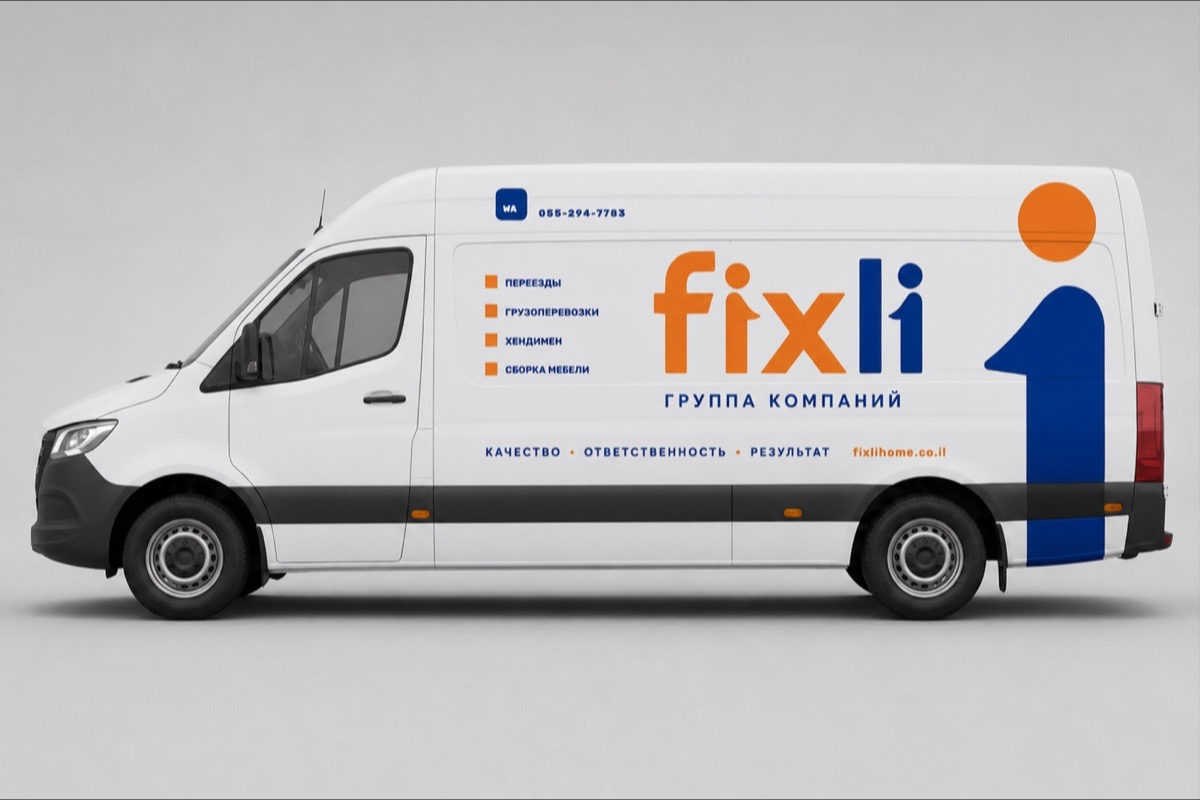
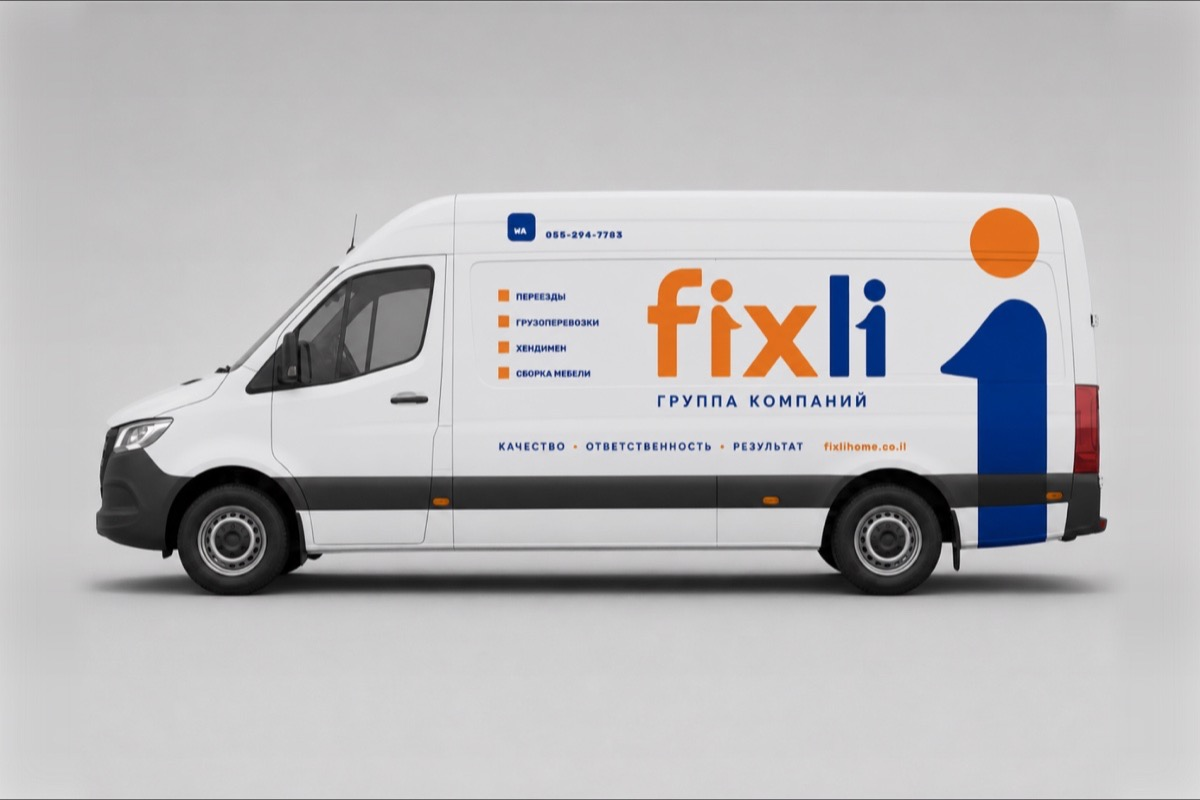
Кадр спринтера приведён к масштабу соседа
Отношение высот машин на странице стало 1,26 — как в паспортных
габаритах класса — вместо прежних 1,12.

Changed region(s): [[0.0, 0.1875, 0.9867, 0.7812], [0.1233, 0.25, 0.37, 0.5312]]

diff --git a/status/cddf45e1af/index.html b/status/cddf45e1af/index.html
@@ -582,14 +582,50 @@
   .такт:last-child::after { content: none; }
 
   /* круг экосистемы */
-  .эко-круг { display: grid; grid-template-columns: 420px 1fr; gap: 34px; align-items: center; margin-top: 8px; }
+  /* Отступы — место для орбит, и числа не на глаз. Слой орбит выше схемы на
+     122 px и ниже на 93; выше дуги стоит ещё подложка подписи. Первая версия
+     давала 112 px сверху — верхняя подпись обрезалась краем блока, и увидели
+     это глаза на кадре, а не замер. Взято с запасом. */
+  .эко-круг {
+    display: grid; grid-template-columns: 480px 1fr; gap: 34px; align-items: center;
+    margin-top: 8px; padding: 134px 0 104px;
+  }
   /* Очень слабое свечение из центра: вся конструкция растёт из одной
      клиентской базы, и фон говорит это раньше, чем текст. Радиус подобран так,
      чтобы к кромке кольца оно уже сошло на нет и не спорило с заливками. */
+  /* Сцена — обёртка ровно по схеме: орбиты позиционируются от НЕЁ, поэтому их
+     центр совпадает с центром кольца при любой ширине. */
+  .эко-сцена { position: relative; width: 100%; max-width: 480px; margin: 0 auto; }
   .эко-схема {
-    width: 100%; max-width: 420px; margin: 0 auto;
+    display: block; width: 100%; position: relative; z-index: 1;
     background: radial-gradient(circle at 50% 46%, rgba(18, 67, 143, .09), rgba(18, 67, 143, 0) 60%);
   }
+  /* Орбиты. Радиусы выведены замером, а не подобраны: подписи направлений
+     тянутся от центра до 229 единиц (самая длинная — «Solutions»), поэтому
+     первая дуга идёт на 243, вторая на 294 — им не с чем сталкиваться.
+
+     Справа дуги разомкнуты на ±35°: при таком разрыве самая правая точка дуги
+     отстоит от центра на 241 единицу по X, то есть остаётся ВНУТРИ своей
+     колонки и не заезжает под карточку. Разрыв здесь не украшение, а
+     единственное, что удерживает орбиты от наложения на текст.
+
+     Слой лежит ПОД схемой (z-index) и не ловит нажатия: сектор под дугой
+     обязан оставаться кнопкой. */
+  .эко-орбиты {
+    position: absolute; left: 50%; top: 46.25%; transform: translate(-50%, -50%);
+    width: 126%; aspect-ratio: 1; pointer-events: none; z-index: 0;
+  }
+  .эко-орбиты .дуга { fill: none; stroke: var(--линия); stroke-width: 1.4; stroke-dasharray: 5 7; }
+  .эко-орбиты .подпись {
+    font-size: 13px; font-weight: 700; letter-spacing: .06em; text-transform: uppercase;
+    fill: var(--текст-мягкий); text-anchor: middle;
+  }
+  .эко-орбиты .когда { font-size: 12px; font-weight: 600; fill: var(--оранжевый-текст); text-anchor: middle; }
+  .эко-орбиты .подложка { fill: var(--фон); }
+  /* На телефоне орбит нет: дуги радиусом вдвое больше кольца там либо вылезают
+     за экран, либо сжимают само кольцо до нечитаемого. Уровни при этом не
+     теряются — они перечислены лентой этапов ниже по странице. */
+  @media (max-width: 900px) { .эко-орбиты { display: none; } }
   .эко-схема .сектор { cursor: pointer; }
   /* У `<g tabindex>` Chromium рисует своё кольцо фокуса и по клику мышью: замер
      даёт `:focus-visible` false при outline 5px, то есть рамка приходит от UA, а
@@ -623,6 +659,19 @@
   .эко-карточка .шапка { display: flex; align-items: center; gap: 10px; margin-bottom: 8px; }
   .эко-карточка .точка { width: 14px; height: 14px; border-radius: 4px; flex: none; }
   .эко-карточка h4 { margin: 0; font-size: 21px; color: var(--синий-тёмный); }
+  /* Тезис — зачем направление нужно бизнесу, а не что в него входит. Все пять
+     взяты дословно из документа стратегии (стр. 2 и 22) и сокращены только
+     обрезкой, без своих слов: предложенные при разборе формулировки вроде
+     «повторный контакт превращается в регулярную выручку» в источнике
+     отсутствуют — слова «регулярн-» там нет ни разу.
+
+     У Cleaning, Handyman и Painting тезис ОДИН и тот же, и это не недосмотр:
+     в источнике они сведены в одну роль «Service — поддержка дома», отдельного
+     «зачем» у каждого документ не даёт. */
+  .эко-карточка .тезис {
+    margin: 10px 0 12px; font-size: 19px; line-height: 1.35; font-weight: 600;
+    color: var(--синий-тёмный); max-width: 30ch;
+  }
   /* Счётчик — ориентир «где я в пятёрке», поэтому он крупный и бледный, а не
      подпись. Скрыт от диктора: положение ему уже сообщают пять озвученных
      секторов-кнопок, а «01 / 05» при каждой смене читалось бы вслух впустую. */
@@ -825,7 +874,7 @@
     /* В столбик связка разворачивается вниз: вбок ей уже некуда, а без неё три
        карточки снова читаются как перечень, а не как порядок. */
     .такт::after { content: "↓"; right: auto; left: 26px; top: auto; bottom: -17px; transform: none; }
-    .эко-круг { grid-template-columns: 1fr; gap: 22px; }
+    .эко-круг { grid-template-columns: 1fr; gap: 22px; padding: 0; }
     .эко-карточка { min-height: 0; }
     .этап-сетка { grid-template-columns: 1fr; }
     .этап-кнопка { flex: 0 0 158px; }
@@ -1485,39 +1534,56 @@
         центр — экономика всей конструкции. В столбик карточек эта мысль исчезает.
         Секторы — кнопки, поэтому работают и с клавиатуры.
       -->
-      <svg class="эко-схема" viewBox="-16 0 492 400" role="group" aria-label="Пять направлений Fixli вокруг общей клиентской базы">
-        <g data-эко="0" class="сектор" style="--вынос-x: 4.7px; --вынос-y: -6.5px" role="button" tabindex="0" aria-pressed="true" aria-label="Moving">
-          <path class="заливка" fill="#12438f" d="M232.9 45.0 A140 140 0 0 1 362.2 139.0 L309.3 157.4 A84 84 0 0 0 231.8 101.0 Z" />
-          <text class="имя" x="327.6" y="55.7" text-anchor="start">Moving</text>
-          <text class="состояние" x="327.6" y="72.7" text-anchor="start">сегодня</text>
-        </g>
-        <g data-эко="1" class="сектор" style="--вынос-x: 7.6px; --вынос-y: 2.5px" role="button" tabindex="0" aria-pressed="false" aria-label="Cleaning">
-          <path class="заливка" fill="#3a66ad" d="M364.0 144.5 A140 140 0 0 1 314.6 296.5 L280.8 251.9 A84 84 0 0 0 310.4 160.7 Z" />
-          <text class="имя" x="387.9" y="241.3" text-anchor="start">Cleaning</text>
-          <text class="состояние" x="387.9" y="258.3" text-anchor="start">этап 2</text>
-        </g>
-        <g data-эко="2" class="сектор" style="--вынос-x: 0px; --вынос-y: 8px" role="button" tabindex="0" aria-pressed="false" aria-label="Handyman">
-          <path class="заливка" fill="#6f93cd" d="M309.9 300.0 A140 140 0 0 1 150.1 300.0 L182.1 254.0 A84 84 0 0 0 277.9 254.0 Z" />
-          <text class="имя" x="230.0" y="356.0" text-anchor="middle">Handyman</text>
-          <text class="состояние" x="230.0" y="373.0" text-anchor="middle">сегодня</text>
-        </g>
-        <g data-эко="3" class="сектор" style="--вынос-x: -7.6px; --вынос-y: 2.5px" role="button" tabindex="0" aria-pressed="false" aria-label="Painting">
-          <path class="заливка" fill="#f7ab63" d="M145.4 296.5 A140 140 0 0 1 96.0 144.5 L149.6 160.7 A84 84 0 0 0 179.2 251.9 Z" />
-          <text class="имя" x="72.1" y="241.3" text-anchor="end">Painting</text>
-          <text class="состояние" x="72.1" y="258.3" text-anchor="end">этап 2</text>
-        </g>
-        <g data-эко="4" class="сектор" style="--вынос-x: -4.7px; --вынос-y: -6.5px" role="button" tabindex="0" aria-pressed="false" aria-label="Solutions">
-          <path class="заливка" fill="#f38025" d="M97.8 139.0 A140 140 0 0 1 227.1 45.0 L228.2 101.0 A84 84 0 0 0 150.7 157.4 Z" />
-          <text class="имя" x="132.4" y="55.7" text-anchor="end">Solutions</text>
-          <text class="состояние" x="132.4" y="72.7" text-anchor="end">этап 5</text>
-        </g>
-        <!-- подписи вынесены НАРУЖУ кольца: внутри они вылезали за обе кромки
-             («Cleaning» и «Painting» резались краем), а затухание невыбранного
-             сектора гасило заодно и текст, роняя его контраст. -->
-        <text class="эко-ядро" x="230" y="173" font-size="18">Одна</text>
-        <text class="эко-ядро" x="230" y="195" font-size="18">клиентская</text>
-        <text class="эко-ядро" x="230" y="217" font-size="18">база</text>
+      <div class="эко-сцена">
+      <svg class="эко-орбиты" viewBox="0 0 620 620" aria-hidden="true" focusable="false">
+        <!-- Уровни выше отдельных услуг. Обе подписи — слова самого документа
+             стратегии («воспроизводимая система», этап 2; «собственная
+             инфраструктура», этап 5), и обе несут метку этапа: без неё кольцо
+             вокруг работающего ядра читается как уже построенное, а это ровно
+             то, подо что просят деньги. Пунктир — та же мысль линией. -->
+        <path class="дуга" d="M 509.1 449.4 A 243 243 0 1 1 509.1 170.6" />
+        <path class="дуга" d="M 550.8 478.6 A 294 294 0 1 1 550.8 141.4" />
+        <rect class="подложка" x="203.9" y="52.0" width="212.3" height="34" rx="6" />
+        <text class="подпись" x="310.0" y="66.0">Воспроизводимая система</text>
+        <text class="когда" x="310.0" y="82.0">этап 2</text>
+        <rect class="подложка" x="191.7" y="1.0" width="236.6" height="34" rx="6" />
+        <text class="подпись" x="310.0" y="15.0">Собственная инфраструктура</text>
+        <text class="когда" x="310.0" y="31.0">этапы 4–5</text>
       </svg>
+        <svg class="эко-схема" viewBox="-16 0 492 400" role="group" aria-label="Пять направлений Fixli вокруг общей клиентской базы">
+          <g data-эко="0" class="сектор" style="--вынос-x: 4.7px; --вынос-y: -6.5px" role="button" tabindex="0" aria-pressed="true" aria-label="Moving">
+            <path class="заливка" fill="#12438f" d="M232.9 45.0 A140 140 0 0 1 362.2 139.0 L309.3 157.4 A84 84 0 0 0 231.8 101.0 Z" />
+            <text class="имя" x="327.6" y="55.7" text-anchor="start">Moving</text>
+            <text class="состояние" x="327.6" y="72.7" text-anchor="start">сегодня</text>
+          </g>
+          <g data-эко="1" class="сектор" style="--вынос-x: 7.6px; --вынос-y: 2.5px" role="button" tabindex="0" aria-pressed="false" aria-label="Cleaning">
+            <path class="заливка" fill="#3a66ad" d="M364.0 144.5 A140 140 0 0 1 314.6 296.5 L280.8 251.9 A84 84 0 0 0 310.4 160.7 Z" />
+            <text class="имя" x="387.9" y="241.3" text-anchor="start">Cleaning</text>
+            <text class="состояние" x="387.9" y="258.3" text-anchor="start">этап 2</text>
+          </g>
+          <g data-эко="2" class="сектор" style="--вынос-x: 0px; --вынос-y: 8px" role="button" tabindex="0" aria-pressed="false" aria-label="Handyman">
+            <path class="заливка" fill="#6f93cd" d="M309.9 300.0 A140 140 0 0 1 150.1 300.0 L182.1 254.0 A84 84 0 0 0 277.9 254.0 Z" />
+            <text class="имя" x="230.0" y="356.0" text-anchor="middle">Handyman</text>
+            <text class="состояние" x="230.0" y="373.0" text-anchor="middle">сегодня</text>
+          </g>
+          <g data-эко="3" class="сектор" style="--вынос-x: -7.6px; --вынос-y: 2.5px" role="button" tabindex="0" aria-pressed="false" aria-label="Painting">
+            <path class="заливка" fill="#f7ab63" d="M145.4 296.5 A140 140 0 0 1 96.0 144.5 L149.6 160.7 A84 84 0 0 0 179.2 251.9 Z" />
+            <text class="имя" x="72.1" y="241.3" text-anchor="end">Painting</text>
+            <text class="состояние" x="72.1" y="258.3" text-anchor="end">этап 2</text>
+          </g>
+          <g data-эко="4" class="сектор" style="--вынос-x: -4.7px; --вынос-y: -6.5px" role="button" tabindex="0" aria-pressed="false" aria-label="Solutions">
+            <path class="заливка" fill="#f38025" d="M97.8 139.0 A140 140 0 0 1 227.1 45.0 L228.2 101.0 A84 84 0 0 0 150.7 157.4 Z" />
+            <text class="имя" x="132.4" y="55.7" text-anchor="end">Solutions</text>
+            <text class="состояние" x="132.4" y="72.7" text-anchor="end">этап 5</text>
+          </g>
+          <!-- подписи вынесены НАРУЖУ кольца: внутри они вылезали за обе кромки
+               («Cleaning» и «Painting» резались краем), а затухание невыбранного
+               сектора гасило заодно и текст, роняя его контраст. -->
+          <text class="эко-ядро" x="230" y="173" font-size="18">Одна</text>
+          <text class="эко-ядро" x="230" y="195" font-size="18">клиентская</text>
+          <text class="эко-ядро" x="230" y="217" font-size="18">база</text>
+        </svg>
+      </div>
 
       <div class="эко-карточка" data-эко-карточка aria-live="polite">
         <span class="счёт" data-эко-счёт aria-hidden="true">01 / 05</span>
@@ -1527,9 +1593,10 @@
           
         </div>
         <h4 data-эко-имя>Moving</h4>
+        <p class="тезис" data-эко-тезис>Переезд даёт максимальное доверие и открывает
+        путь ко всем остальным услугам.</p>
         <p data-эко-текст>Переезды, доставки, сложные монтажи — от базовой перевозки до
-        Complete Move. Переезд даёт максимальное доверие и открывает путь ко всем
-        остальным услугам.</p>
+        Complete Move.</p>
         <span class="состояние идёт" data-эко-состояние>Работает сегодня</span>
       </div>
     </div>
@@ -2272,23 +2339,22 @@
 
   /* круг экосистемы */
   var экоДанные = [
-    { имя: "Moving", роль: "Главный вход", цвет: "#12438f", идёт: true,
-      текст: "Переезды, доставки, сложные монтажи — от базовой перевозки до Complete Move. " +
-             "Переезд даёт максимальное доверие и открывает путь ко всем остальным услугам.",
+    { имя: "Moving", тезис: "Переезд даёт максимальное доверие и открывает путь ко всем остальным услугам.", роль: "Главный вход", цвет: "#12438f", идёт: true,
+      текст: "Переезды, доставки, сложные монтажи — от базовой перевозки до Complete Move.",
       состояние: "Работает сегодня" },
-    { имя: "Cleaning", роль: "Поддержка дома", цвет: "#3a66ad", идёт: false,
+    { имя: "Cleaning", тезис: "Клиенту больше не нужно каждый раз искать нового неизвестного исполнителя.", роль: "Поддержка дома", цвет: "#3a66ad", идёт: false,
       текст: "Премиальная уборка. Есть готовый человек со своей инфраструктурой и " +
              "возможностью самостоятельно доезжать до клиента.",
       состояние: "Этап 2 — запуск департамента" },
-    { имя: "Handyman", роль: "Поддержка дома", цвет: "#6f93cd", идёт: true,
+    { имя: "Handyman", тезис: "Клиенту больше не нужно каждый раз искать нового неизвестного исполнителя.", роль: "Поддержка дома", цвет: "#6f93cd", идёт: true,
       текст: "Монтаж телевизоров, полок, карнизов, мебели и другие домашние задачи. " +
              "Мобильные специалисты работают без постоянной нагрузки на центр.",
       состояние: "Работает сегодня" },
-    { имя: "Painting", роль: "Поддержка дома", цвет: "#f7ab63", идёт: false,
+    { имя: "Painting", тезис: "Клиенту больше не нужно каждый раз искать нового неизвестного исполнителя.", роль: "Поддержка дома", цвет: "#f7ab63", идёт: false,
       текст: "Экспресс-покраска после переезда и полноценные малярные работы отдельной " +
              "автономной командой.",
       состояние: "Этап 2 — запуск департамента" },
-    { имя: "Solutions", роль: "Способ мышления", цвет: "#f38025", идёт: false,
+    { имя: "Solutions", тезис: "Понять задачу, собрать команду, управлять качеством и отвечать перед клиентом.", роль: "Способ мышления", цвет: "#f38025", идёт: false,
       текст: "Клиент может не знать форму решения. Fixli выясняет желаемый результат, " +
              "собирает специалистов, управляет процессом и отвечает за итог.",
       состояние: "Этап 5 — дальний горизонт" }
@@ -2300,6 +2366,7 @@
   var экоТекст = document.querySelector("[data-эко-текст]");
   var экоСостояние = document.querySelector("[data-эко-состояние]");
   var экоСчёт = document.querySelector("[data-эко-счёт]");
+  var экоТезис = document.querySelector("[data-эко-тезис]");
 
   function выбратьЭко(i) {
     var д = экоДанные[i];
@@ -2307,6 +2374,7 @@
     экоТочка.style.background = д.цвет;
     экоРоль.textContent = д.роль;
     экоИмя.textContent = д.имя;
+    экоТезис.textContent = д.тезис;
     экоТекст.textContent = д.текст;
     экоСостояние.textContent = д.состояние;
     экоСостояние.classList.toggle("идёт", д.идёт);
@@ -2358,8 +2426,15 @@
                { к: "7.5", n: 3, будущая: true, подпись: "переезды и B2B" },
                { к: "мк", n: 1, будущая: true, подпись: "последняя миля" }],
       вывод: "<b>Летняя конфигурация.</b> Сегодняшняя машина входит в неё; каждая следующая добавляется только когда предыдущая занята — парк идёт за загрузкой, а не впереди неё." },
-    { машины: [{ к: "12", n: 1, будущая: true, подпись: "магистраль" }],
-      вывод: "<b>Магистральная машина — отдельно от всего.</b> Появляется только после доказанного логистического пилота и в расчёт возврата финансирования не входит." }
+    /* Магистральная машина ДОБАВЛЯЕТСЯ к летнему парку, а не заменяет его
+       (правка Дмитрия 31.08 по живому экрану: «оно же по сути добавляется к общему
+       парку, а не вместо него»). Показывать её в одиночку значило утверждать, что
+       после пилота у компании одна машина — то есть меньше, чем шагом раньше. */
+    { машины: [{ к: "4", n: 3, будущая: true, подпись: "городские заказы" },
+               { к: "7.5", n: 3, будущая: true, подпись: "переезды и B2B" },
+               { к: "мк", n: 1, будущая: true, подпись: "последняя миля" },
+               { к: "12", n: 1, будущая: true, подпись: "магистраль" }],
+      вывод: "<b>Летний парк плюс магистральная машина.</b> Она добавляется к парку, а не заменяет его: появляется только после доказанного логистического пилота и в расчёт возврата финансирования не входит." }
   ];
   var паркКнопки = [].slice.call(document.querySelectorAll("[data-парк]"));
   var паркРяд = document.querySelector("[data-парк-ряд]");
@@ -2388,7 +2463,11 @@
     var р = паркРежимы[i];
     паркКнопки.forEach(function (к, j) { к.setAttribute("aria-pressed", String(j === i)); });
     паркРяд.innerHTML = р.машины.map(function (м) {
-      return '<div class="парк-машина' + (м.будущая ? " будущая" : "") + '">' + силуэт(м.к) +
+      /* класс и кратность выносятся в атрибуты, чтобы сторож читал состав
+         конфигурации, а не разбирал подпись: правило «парк только растёт»
+         проверяется по данным, а не по тексту, который свёрстан для глаз. */
+      return '<div class="парк-машина' + (м.будущая ? " будущая" : "") +
+        '" data-класс="' + м.к + '" data-сколько="' + м.n + '">' + силуэт(м.к) +
         '<span class="подпись-машины"><span class="кратность">' + м.n + ' ×</span> ' +
         паркКлассы[м.к].имя + '<br>' + м.подпись + '</span></div>';
     }).join("");
